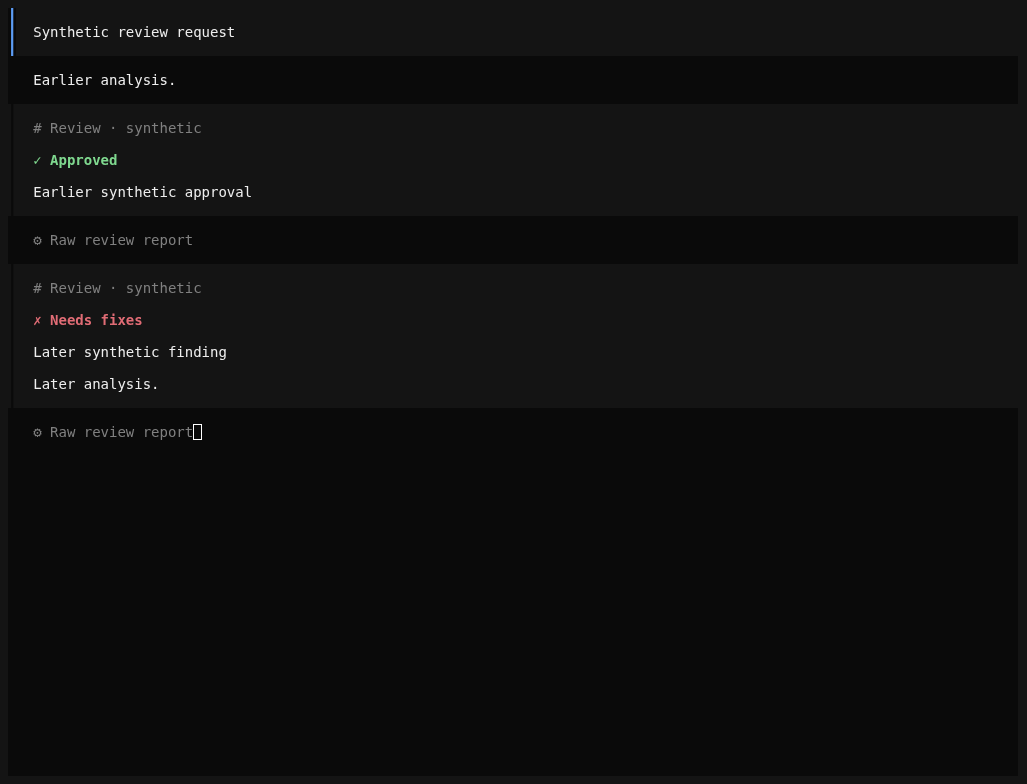
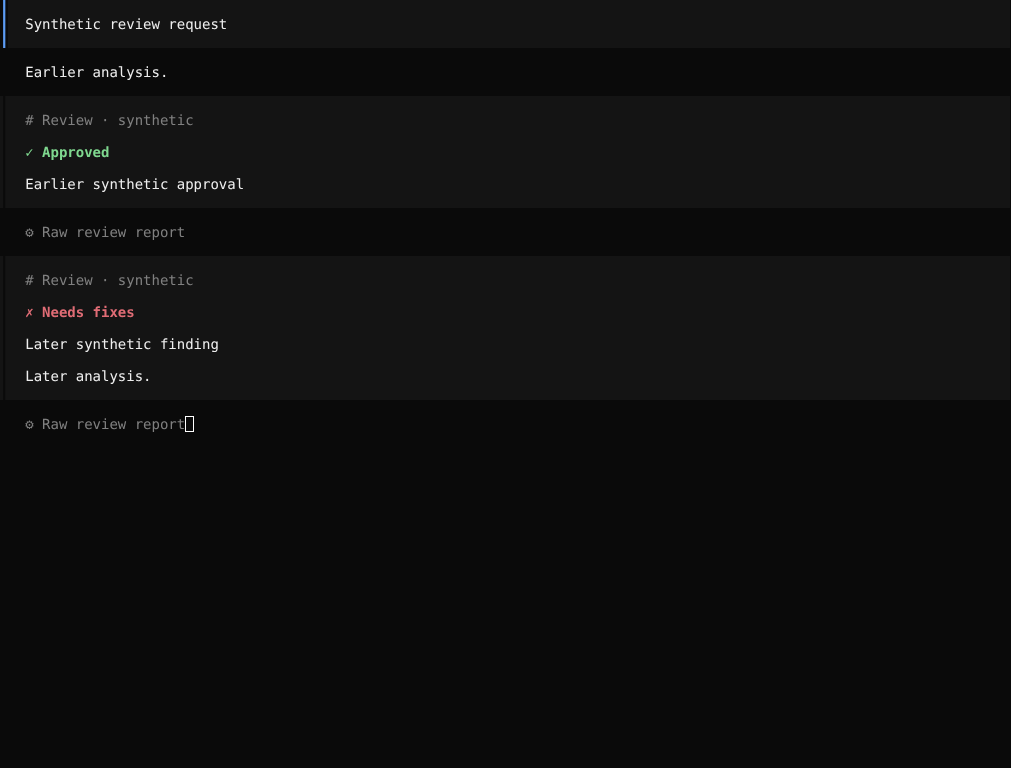
Refresh synthetic review transcript evidence

diff --git a/packages/tui/test/cli/tui/review-history-capture.tsx b/packages/tui/test/cli/tui/review-history-capture.tsx
@@ -28,6 +28,7 @@ import { DialogProvider } from "../../../src/ui/dialog"
 import { LocationProvider } from "../../../src/context/location"
 import { OpencodeKeymapProvider, registerOpencodeKeymap } from "../../../src/keymap"
 import { AssistantMessageRow, SessionContext, CaptureUserMessage } from "../../../src/routes/session"
+import { createExecutionReviewIndex } from "../../../src/routes/session/review-execution"
 import { computeActivityGroups } from "../../../src/util/activity"
 import { waitUntil } from "../../fixture/frame"
 import { ReviewReport } from "@opencode-ai/core/review-report"
@@ -64,6 +65,7 @@ async function mount(options: { entries: { info: Message; parts: Part[] }[] }) {
         })),
       ),
     )
+    const reviewExecution = createMemo(() => createExecutionReviewIndex(storeSync.data.message[SESSION] ?? [], storeSync.data.part))
     const ctxValue = {
       get width() {
         return 120
@@ -80,6 +82,7 @@ async function mount(options: { entries: { info: Message; parts: Part[] }[] }) {
       sync: storeSync,
       tui,
       activity: () => activity(),
+      reviewExecution,
       activityAllExpanded: () => false,
       activityExpanded: () => false,
       toggleActivity: () => {},

diff --git a/docs/review-text-evidence/README.md b/docs/review-text-evidence/README.md
@@ -22,4 +22,4 @@ For example, from `packages/tui`:
 script -q -e -c 'stty cols 120 rows 48; bun test/cli/tui/review-history-capture.tsx nudge' /dev/null > nudge.ansi
 ```
 
-The PNGs are screenshots of these actual terminal streams replayed at 120×48 in xterm.js, with the alternate-screen exit omitted so the last frame stays visible. The production rendering code corresponds to `b6fb0d2` plus the exported user-row alias used by this capture fixture.
+The PNGs are screenshots of these actual terminal streams replayed at 120×48 in xterm.js, with the alternate-screen exit omitted so the last frame stays visible. These streams were freshly recorded from production rendering code at `e3b6dcf`, using the shared reactive execution index in the synthetic component harness; the streams are byte-for-byte identical to the earlier captures. The PNGs were regenerated from those fresh recordings. This is not a full Session-route capture.
